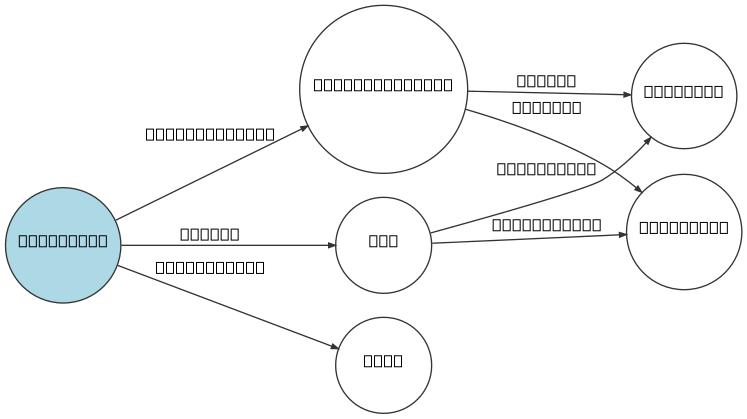
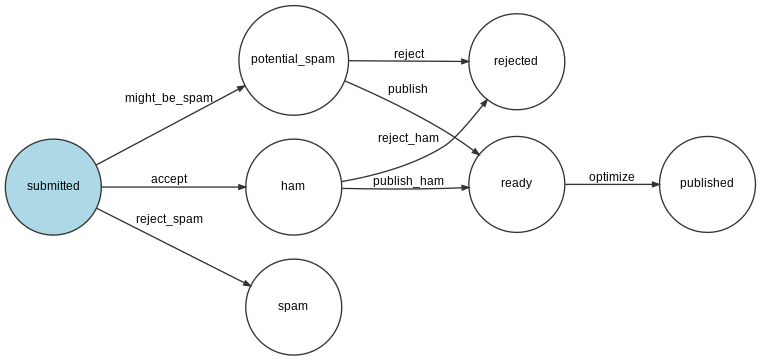
Step 23: Resizing Images

diff --git a/src/MessageHandler/CommentMessageHandler.php b/src/MessageHandler/CommentMessageHandler.php
@@ -2,6 +2,7 @@
 
 namespace App\MessageHandler;
 
+use App\ImageOptimizer;
 use App\Message\CommentMessage;
 use App\Repository\CommentRepository;
 use App\SpamChecker;
@@ -21,10 +22,12 @@ class CommentMessageHandler implements MessageHandlerInterface
   private $bus;
   private $workflow;
   private $mailer;
+  private $imageOptimizer;
   private $adminEmail;
+  private $photoDir;
   private $logger;
 
-  public function __construct(EntityManagerInterface $entityManager, SpamChecker $spamChecker, CommentRepository $commentRepository, MessageBusInterface $bus, WorkflowInterface $commentStateMachine, MailerInterface $mailer, string $adminEmail, LoggerInterface $logger = null)
+  public function __construct(EntityManagerInterface $entityManager, SpamChecker $spamChecker, CommentRepository $commentRepository, MessageBusInterface $bus, WorkflowInterface $commentStateMachine, MailerInterface $mailer, ImageOptimizer $imageOptimizer, string $adminEmail, string $photoDir, LoggerInterface $logger = null)
   {
     $this->entityManager = $entityManager;
     $this->spamChecker = $spamChecker;
@@ -32,7 +35,9 @@ class CommentMessageHandler implements MessageHandlerInterface
     $this->bus = $bus;
     $this->workflow = $commentStateMachine;
     $this->mailer = $mailer;
+    $this->imageOptimizer = $imageOptimizer;
     $this->adminEmail = $adminEmail;
+    $this->photoDir = $photoDir;
     $this->logger = $logger;
   }
 
@@ -63,6 +68,12 @@ class CommentMessageHandler implements MessageHandlerInterface
           ->to($this->adminEmail)
           ->context(['comment' => $comment])
       );
+    } elseif ($this->workflow->can($comment, 'optimize')) {
+      if ($comment->getPhotoFilename()) {
+        $this->imageOptimizer->resize($this->photoDir . '/' . $comment->getPhotoFilename());
+      }
+      $this->workflow->apply($comment, 'optimize');
+      $this->entityManager->flush();
     } elseif ($this->logger) {
       $this->logger->debug('Dropping comment message', ['comment' => $comment->getId(), 'state' => $comment->getState()]);
     }

diff --git a/src/ImageOptimizer.php b/src/ImageOptimizer.php
@@ -1,0 +1,35 @@
+<?php
+
+namespace App;
+
+use Imagine\Gd\Imagine;
+use Imagine\Image\Box;
+
+class ImageOptimizer
+{
+  private const MAX_WIDTH = 200;
+  private const MAX_HEIGHT = 150;
+
+  private $imagine;
+
+  public function __construct()
+  {
+    $this->imagine = new Imagine();
+  }
+
+  public function resize(string $filename): void
+  {
+    list($iwidth, $iheight) = getimagesize($filename);
+    $ratio = $iwidth / $iheight;
+    $width = self::MAX_WIDTH;
+    $height = self::MAX_HEIGHT;
+    if ($width / $height > $ratio) {
+      $width = $height * $ratio;
+    } else {
+      $height = $width / $ratio;
+    }
+
+    $photo = $this->imagine->open($filename);
+    $photo->resize(new Box($width, $height))->save($filename);
+  }
+}
